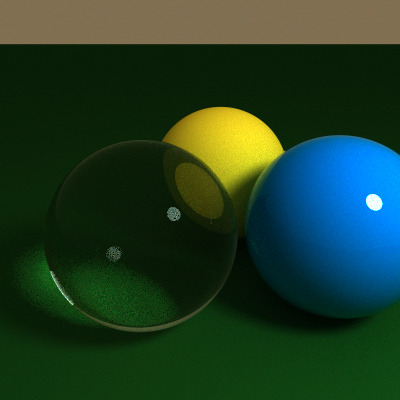
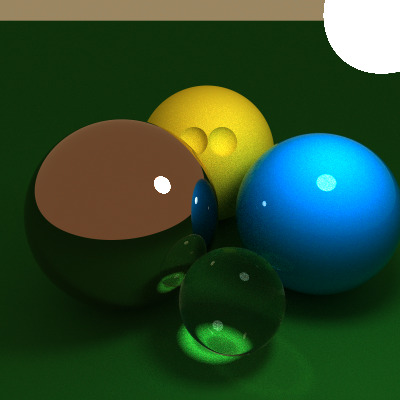
Update example.

diff --git a/examples/spheres.hpp b/examples/spheres.hpp
@@ -2,9 +2,9 @@
 int const width = 400, height = 400;
 double const max_depth = 100;
 skind const shadows = Weighted;
-int const min_steps = 4;
+int const min_steps = 6;
 int const max_steps = 20;
-int const min_samples = 400;
+int const min_samples = 900;
 int const max_samples = 10000;
 double const variance = 0.08;
 bool const regularize = false;
@@ -13,27 +13,57 @@ bool const regularize = false;
 #ifdef SCENE
 namespace Scene {
 
+// Werner, Glantschnig, Ambrosch-Draxl, JPCRD 2009
+Spectrum::sampled gold_n { {
+  { 354.241, 1.8444 },
+  { 381.490, 1.8920 },
+  { 413.281, 1.8570 },
+  { 450.852, 1.7933 },
+  { 495.937, 1.6936 },
+  { 551.041, 1.4173 },
+  { 619.921, 0.8199 },
+  { 708.481, 0.4391 },
+  { 826.561, 0.3347 } } };
+
+Spectrum::sampled gold_k { {
+  { 354.241, 2.0676 },
+  { 381.490, 2.0938 },
+  { 413.281, 2.1072 },
+  { 450.852, 2.1932 },
+  { 495.937, 2.2562 },
+  { 551.041, 2.3358 },
+  { 619.921, 2.7124 },
+  { 708.481, 3.6965 },
+  { 826.561, 4.8406 } } };
+
 std::vector<Light::ptr> lights {
   new Light::spherical {
-    new Spectrum::blackbody { 500., 5800 },
-    { 5., 5., -5. }, 1. },
+    new Spectrum::blackbody { 50., 5800 },
+    { 2.2, 2., -2.2 }, 0.4 },
   new Light::uniform {
-    new Spectrum::blackbody { 0.5, 4300 } },
+    new Spectrum::blackbody { 0.6, 4300 } },
 };
 
 std::vector<object> objects {
   { new Solid::plane { { 0., 1., 0. }, 1. },
-    new Material::lambertian { new Spectrum::from_palette { 0.3, 5, 9 } },
+    new Material::lambertian { new Spectrum::from_palette { 0.4, 5, 9 } },
     NULL },
   { new Solid::sphere { { 0.2, 0., -1.2 }, 1. },
-    new Material::refractive { 1.2 },
+    new Material::reflective { &gold_n, &gold_k },
     NULL },
-  { new Solid::sphere { { 2.3, 0., -1. }, 1. },
+  { new Solid::sphere { { 2.3, -0.1, -1. }, 0.9 },
     new Material::thin_refractive { 1.3,
       new Material::lambertian { new Spectrum::from_palette { 0.9, 2, 15 } }, },
     NULL },
-  { new Solid::sphere { { 1.1, 0., 0.7 }, 1. },
+  { new Solid::exclusion {
+      new Solid::sphere { { 1.1, 0., 0.7 }, 1. },
+      new Solid::union_ {
+        new Solid::sphere { { 0.9, 0.5, -0.2 }, 0.2 },
+        new Solid::sphere { { 1.3, 0.5, -0.2 }, 0.2 } } },
     new Material::lambertian { new Spectrum::from_palette { 0.9, 8, 10 } },
+    NULL },
+  { new Solid::sphere { { 1.3, -0.5, -2. }, 0.5 },
+    new Material::refractive { 1.2 },
     NULL },
 };
 
@@ -41,12 +71,12 @@ std::vector<object> objects {
 
 namespace Camera {
 
-vec pos { 0.8, 2., -5. };
+vec pos { 1., 2., -5. };
 
 std::array<double, 9> dir = {
   1., 0., 0.,
-  0., cos(0.4), -sin(0.4),
-  0., sin(0.4), cos(0.4)
+  0., cos(0.45), -sin(0.45),
+  0., sin(0.45), cos(0.45)
 };
 
 }
